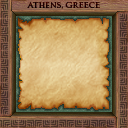
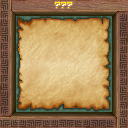
big ben, tweaks to city prog

Changed region(s): [[0.2188, 0.0, 0.7812, 0.0938]]

diff --git a/sdk/examples/word/CubeStateMachine.cpp b/sdk/examples/word/CubeStateMachine.cpp
@@ -1444,7 +1444,7 @@ void CubeStateMachine::paint()
                 }
             }
 
-            const float WIPE_TIME = 2.0f;
+            const float WIPE_TIME = 1.5f;
             float animPct = fmod(mStateTime / .5f, 1.f);
             float transPct = mStateTime / WIPE_TIME;
             UByte2 pos = vec(2, 2);
@@ -1483,9 +1483,12 @@ void CubeStateMachine::paint()
                     */
                 }
             }
-            else
+            else if (numMetasSolved >= numMetas)
             {
-
+                mVidBuf->bg0.image(vec(2, 0),
+                                   vec(12, 2),
+                                   LabelAthens, // TODO array
+                                   vec(2, 0));
             }
 
             LOG("sparklerow %d\n", sparkleRow);
